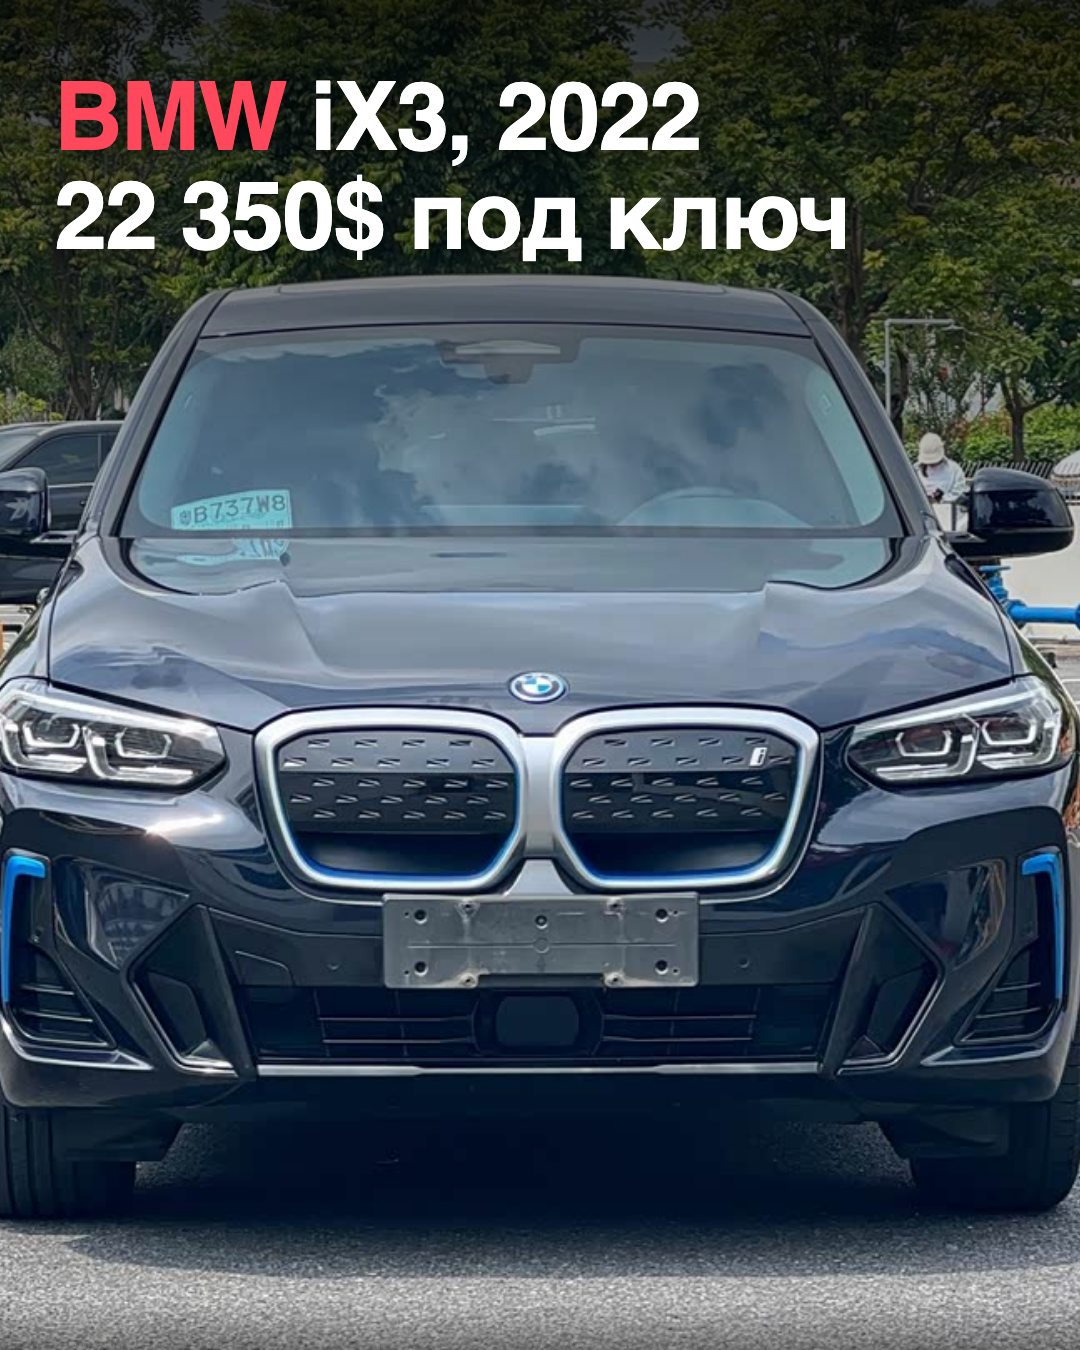
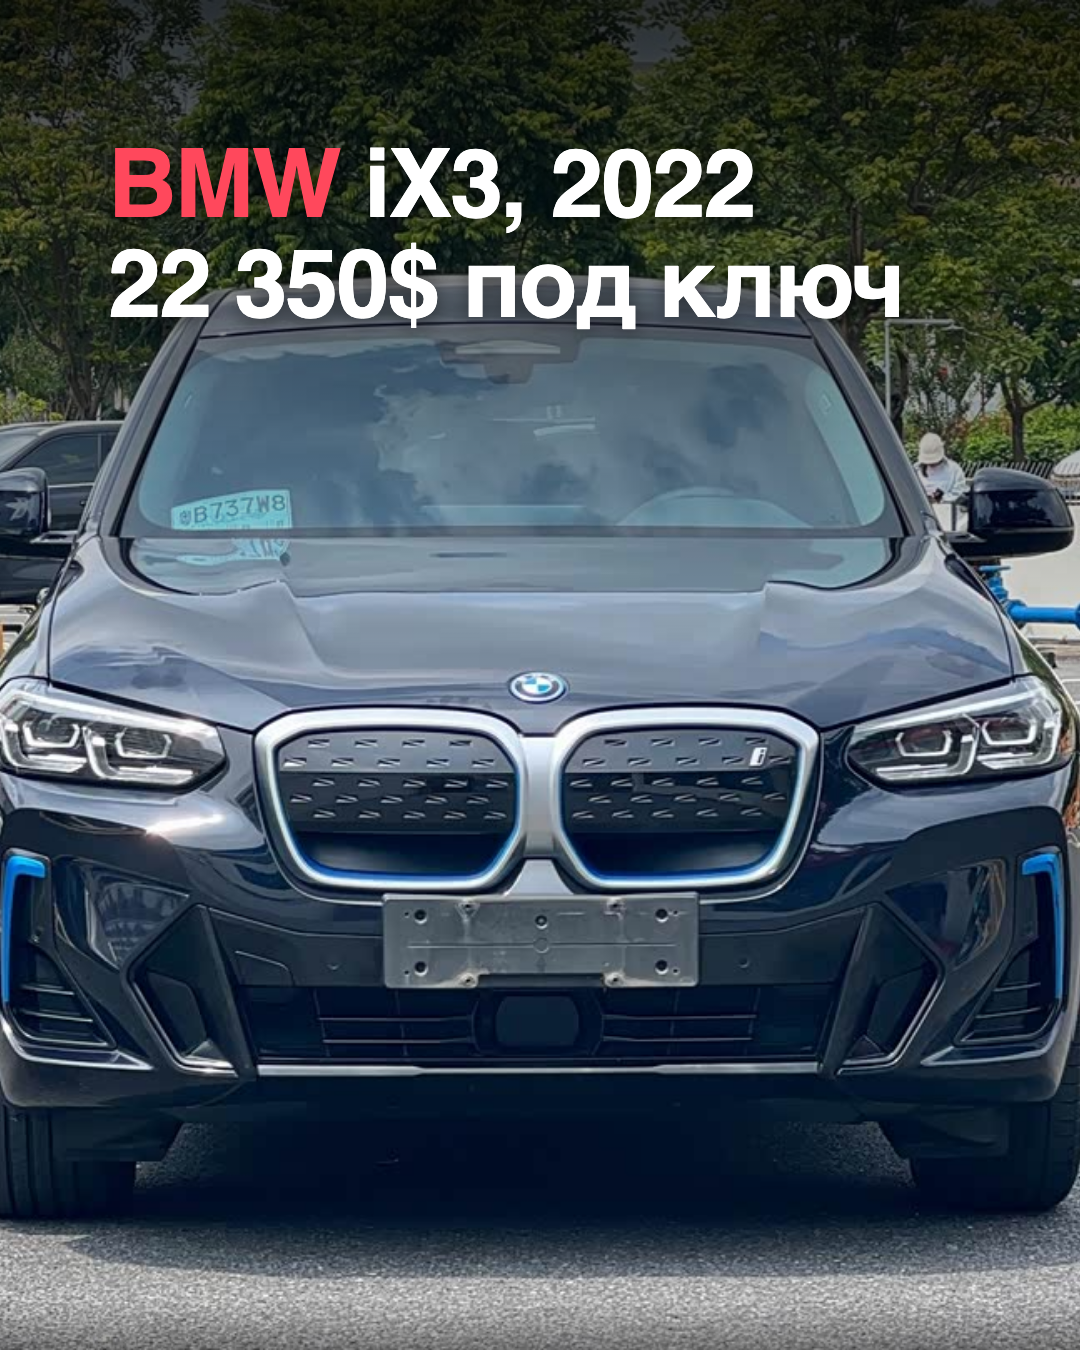
Обновить соцсети, аналитику и контакты

Changed region(s): [[0.0306, 0.0622, 0.8556, 0.2489]]

diff --git a/src/analytics.css b/src/analytics.css
@@ -409,7 +409,8 @@ html[data-theme="dark"] .analytics-line-chart { --chart-highlight:#fff; --chart-
 .social-frame.edge-bottom::after { bottom:0; background:linear-gradient(to top, rgb(0 0 0 / 80%), rgb(0 0 0 / 0%)); }
 /* Первая строка будущей записи поверх кадра.
  *
- * Область для текста одна на все записи: одинаковый отступ от края со всех сторон.
+ * Область для текста одна на все записи: по горизонтали отступ 5%, а сверху и
+ * снизу — удвоенные 10%, чтобы надпись не прижималась к краю вертикального кадра.
  * Внутри области четыре места: левый край и середина, сверху и снизу. Место закреплено
  * за темой, чтобы тема узнавалась в ленте с одного взгляда.
  *
@@ -434,7 +435,7 @@ html[data-theme="dark"] .analytics-line-chart { --chart-highlight:#fff; --chart-
  * отложили; их файлы лежат рядом в src/fonts.css — примерить снова значит поменять
  * здесь название шрифта и насыщенность.
  */
-.social-frame { --social-safe:5%; }
+.social-frame { --social-safe-x:10%; --social-safe-y:10%; }
 /* Слово не переносится нигде и никогда — 17.09.2026 разобрали, что перенос
    посередине слова ломал буквы («Электромобил» / «ь»), и убрали его совсем. Значит,
    если слово шире своей области, единственный выход — уменьшить масштаб, а не
@@ -457,9 +458,9 @@ html[data-theme="dark"] .analytics-line-chart { --chart-highlight:#fff; --chart-
 /* Место у правого края убрано 17.09.2026: коробка там прижималась к углу, но сама
    сжималась по ширине текста и на глаз читалась как «где-то в середине», а не как
    правый край, — путала, а не помогала узнавать тему. */
-/* Все места держат один и тот же безопасный отступ от края. */
-.social-title.at-top-left { left:var(--social-safe); top:var(--social-safe); }
-.social-title.at-bottom-left { left:var(--social-safe); bottom:var(--social-safe); }
+/* Вертикальный безопасный отступ вдвое больше горизонтального. */
+.social-title.at-top-left { left:var(--social-safe-x); top:var(--social-safe-y); }
+.social-title.at-bottom-left { left:var(--social-safe-x); bottom:var(--social-safe-y); }
 /* Середина края: ширину даём больше, иначе длинная строка ломается на три куска.
    Центруем не сдвигом от левого края (`left:50%` + сдвиг назад), а распором в обе
    стороны с автоматическими полями. Разница не косметическая: у прижатой к точке
@@ -468,8 +469,8 @@ html[data-theme="dark"] .analytics-line-chart { --chart-highlight:#fff; --chart-
 .social-title.at-top-center, .social-title.at-bottom-center {
   left:0; right:0; margin-inline:auto; width:max-content; max-width:78%; text-align:center;
 }
-.social-title.at-top-center { top:var(--social-safe); }
-.social-title.at-bottom-center { bottom:var(--social-safe); }
+.social-title.at-top-center { top:var(--social-safe-y); }
+.social-title.at-bottom-center { bottom:var(--social-safe-y); }
 .social-frame-empty { position:absolute; inset:0; display:grid; place-items:center; color:var(--muted); font-size:13px; }
 @media (max-width:1100px) { .social-grid { grid-template-columns:repeat(2,minmax(0,1fr)); } }
 @media (max-width:620px) { .social-grid { gap:10px; } .social-grid.bare { gap:2px; } }

diff --git a/src/social-themes.js b/src/social-themes.js
@@ -157,19 +157,25 @@ const modelName = (car) => [car?.brand, car?.model].filter(Boolean).join(" ");
 // («15 000 $»), число с единицей и короткий предлог, который иначе повисает в конце
 // строки. Склеиваем их неразрывным пробелом — на узкой плитке это видно сразу.
 const NBSP = "\u00a0";
-const SHORT_WORDS = /(^|[\s(«])([А-Яа-яЁёA-Za-z]{1,2}|для|под|при|или)\s+/g;
+const SHORT_WORDS = /(?<![\p{L}\p{N}_-])([А-Яа-яЁёA-Za-z]{1,2}|без|вне|для|из-за|из-под|над|около|перед|по(?:сле|среди)|под|при|про|ради|среди|через|между|возле|вокруг|кроме|против|или|либо)\s+(?=\S)/giu;
 // Хвост строки в одну-три буквы (часто конец названия модели: «Han L?», «Zeekr
 // 7X?») не должен переноситься один-одинёшенек на свою строку — приклеиваем его
 // к предыдущему слову тем же неразрывным пробелом.
 const TRAILING_SHORT = / (?=[А-Яа-яЁёA-Za-z0-9]{1,3}[?!.,:;]*$)/;
 export function typeset(text) {
-  return String(text || "")
+  let value = String(text || "")
     // Разряды числа и знак валюты: «15 000 $», «35 100$», «2 500 км».
     .replace(/(\d)[\s\u00a0](?=\d)/g, `$1${NBSP}`)
-    .replace(/(\d)\s+(?=[$€₽]|BYN|км|кВт)/g, `$1${NBSP}`)
-    // Короткие слова тянут за собой следующее: «до 25 000 $», «на электротяге».
-    .replace(SHORT_WORDS, `$1$2${NBSP}`)
-    .replace(TRAILING_SHORT, NBSP);
+    .replace(/(\d)\s+(?=[$€₽]|BYN|км|кВт)/g, `$1${NBSP}`);
+  // Предлоги и короткие служебные слова тянут за собой следующее слово. Повторяем
+  // проход, чтобы обработать цепочки вроде «и в каталоге»: первая замена не должна
+  // мешать второй увидеть следующий предлог.
+  let previous;
+  do {
+    previous = value;
+    value = value.replace(SHORT_WORDS, `$1${NBSP}`);
+  } while (value !== previous);
+  return value.replace(TRAILING_SHORT, NBSP);
 }
 const priceUsd = (car) => {
   const total = estimateLandedCost(car)?.totalUsd;

diff --git a/src/analytics-page.jsx b/src/analytics-page.jsx
@@ -597,8 +597,8 @@ function VisitsSection({ visits, total, unread }) {
 }
 
 const vehicleModes = [
-  { id:"catalog", label:"Каталог" },
   { id:"cars", label:"Авто" },
+  { id:"catalog", label:"Каталог" },
   { id:"models", label:"Модели" },
   { id:"favorites", label:"Избранное" },
 ];

diff --git a/AGENTS.md b/AGENTS.md
@@ -1,5 +1,7 @@
 # Prototype Instructions
 
+Public email preference (owner decision, 2026-09-20): use `abcarsby@gmail.com` everywhere visitors or search engines can see the company email. Never restore `hello@abcars.by`.
+
 Service reviews visibility (owner decision, 2026-09-16): temporarily hide the complete reviews section on «О сервисе» in both local and production versions using `REVIEWS_ENABLED`. Preserve its content for later re-enabling. This supersedes the earlier published-reviews visibility preference.
 
 Service-fee row visibility (owner decision, 2026-09-16): temporarily hide the «Услуги abcars.by» row in the vehicle price breakdown and order estimate. Keep the service fee included in landed-price totals.
@@ -490,7 +492,7 @@ Action-button tooltip preference: the round "Копировать ссылку" 
 
 Share-action preference: no share icon anywhere in the interface, including the vehicle-page action row.
 
-Real contact details — checklist for when the owner supplies them (rule set 2026-08-23): `src/company-data.js` currently holds placeholders (legal name "ООО «Евкарс»", address "Минск, ул. Тимирязева, 65Б", commented-out phone, `hello@abcars.by`) and the file says to replace every value before publication. The site is live and indexed, so these values are now public claims — never put a placeholder address or phone into structured data, a schema block, or a page that search engines read. When Sergey provides the real name, address, phone and hours, do all of this in one pass:
+Real contact details — checklist for when the owner supplies them (rule set 2026-08-23, contact update 2026-09-20): `src/company-data.js` is the single source of public contact details and currently uses `abcarsby@gmail.com`. The site is live and indexed, so these values are public claims — never put a placeholder address, phone or email into structured data, a schema block, or a page that search engines read. When Sergey provides changed legal details, address, phone or hours, do all of this in one pass:
 
 1. Fill `src/company-data.js` (legalName, address, hours, email, phone + phoneHref, telegram, viber) and delete the "Demo company details" warning comment. Uncomment the phone in the contacts page and the footer.
 2. Replace `organizationSchema()` in `server/seo-render.mjs` with an **AutoDealer** (subtype of LocalBusiness) carrying `name`, `legalName`, `url`, `logo`, `image`, `telephone`, `email`, `address` as a `PostalAddress` (streetAddress / addressLocality "Минск" / addressCountry "BY" / postalCode), `openingHoursSpecification` from the real hours, `geo` as `GeoCoordinates` with the real coordinates (the contacts page already embeds a Yandex map at 53.922078, 27.512217 — verify it matches the real office before reusing), `areaServed` Беларусь, `priceRange`, and `sameAs` for the real Telegram/Viber/social profiles. Emit it on **every** page, not only the home page — a local business block is expected site-wide.

diff --git a/SOCIAL_PLAN.md b/SOCIAL_PLAN.md
@@ -1,7 +1,7 @@
 # План автопостинга в соцсети
 
 Живой документ: правится по мере того, как Сергей уточняет правила. Последнее
-обновление — 17.09.2026. Сети: телеграм-канал @abcars_by, Instagram и Threads
+обновление — 20.09.2026. Сети: телеграм-канал @abcars_by, Instagram и Threads
 @abcars.by. Механизм публикации описан в `scripts/social-post.mjs`.
 
 Сроки подготовки, проверка актуальности, очередь и выпуск записей описаны в
@@ -22,6 +22,9 @@
 3. Цена всегда «под ключ» — с доставкой, растаможкой и сборами, в долларах и рублях.
 4. Одна запись — одна машина. Исключение: подборки и сравнения, где машин несколько
    по смыслу блока.
+5. **В заголовках на изображениях не допускаются висячие предлоги и короткие
+   служебные слова.** Они связываются со следующим словом неразрывным пробелом —
+   это правило действует и в витрине исходников, и в еженедельной генерации.
 
 ## Костяк: приоритетные модели
 
